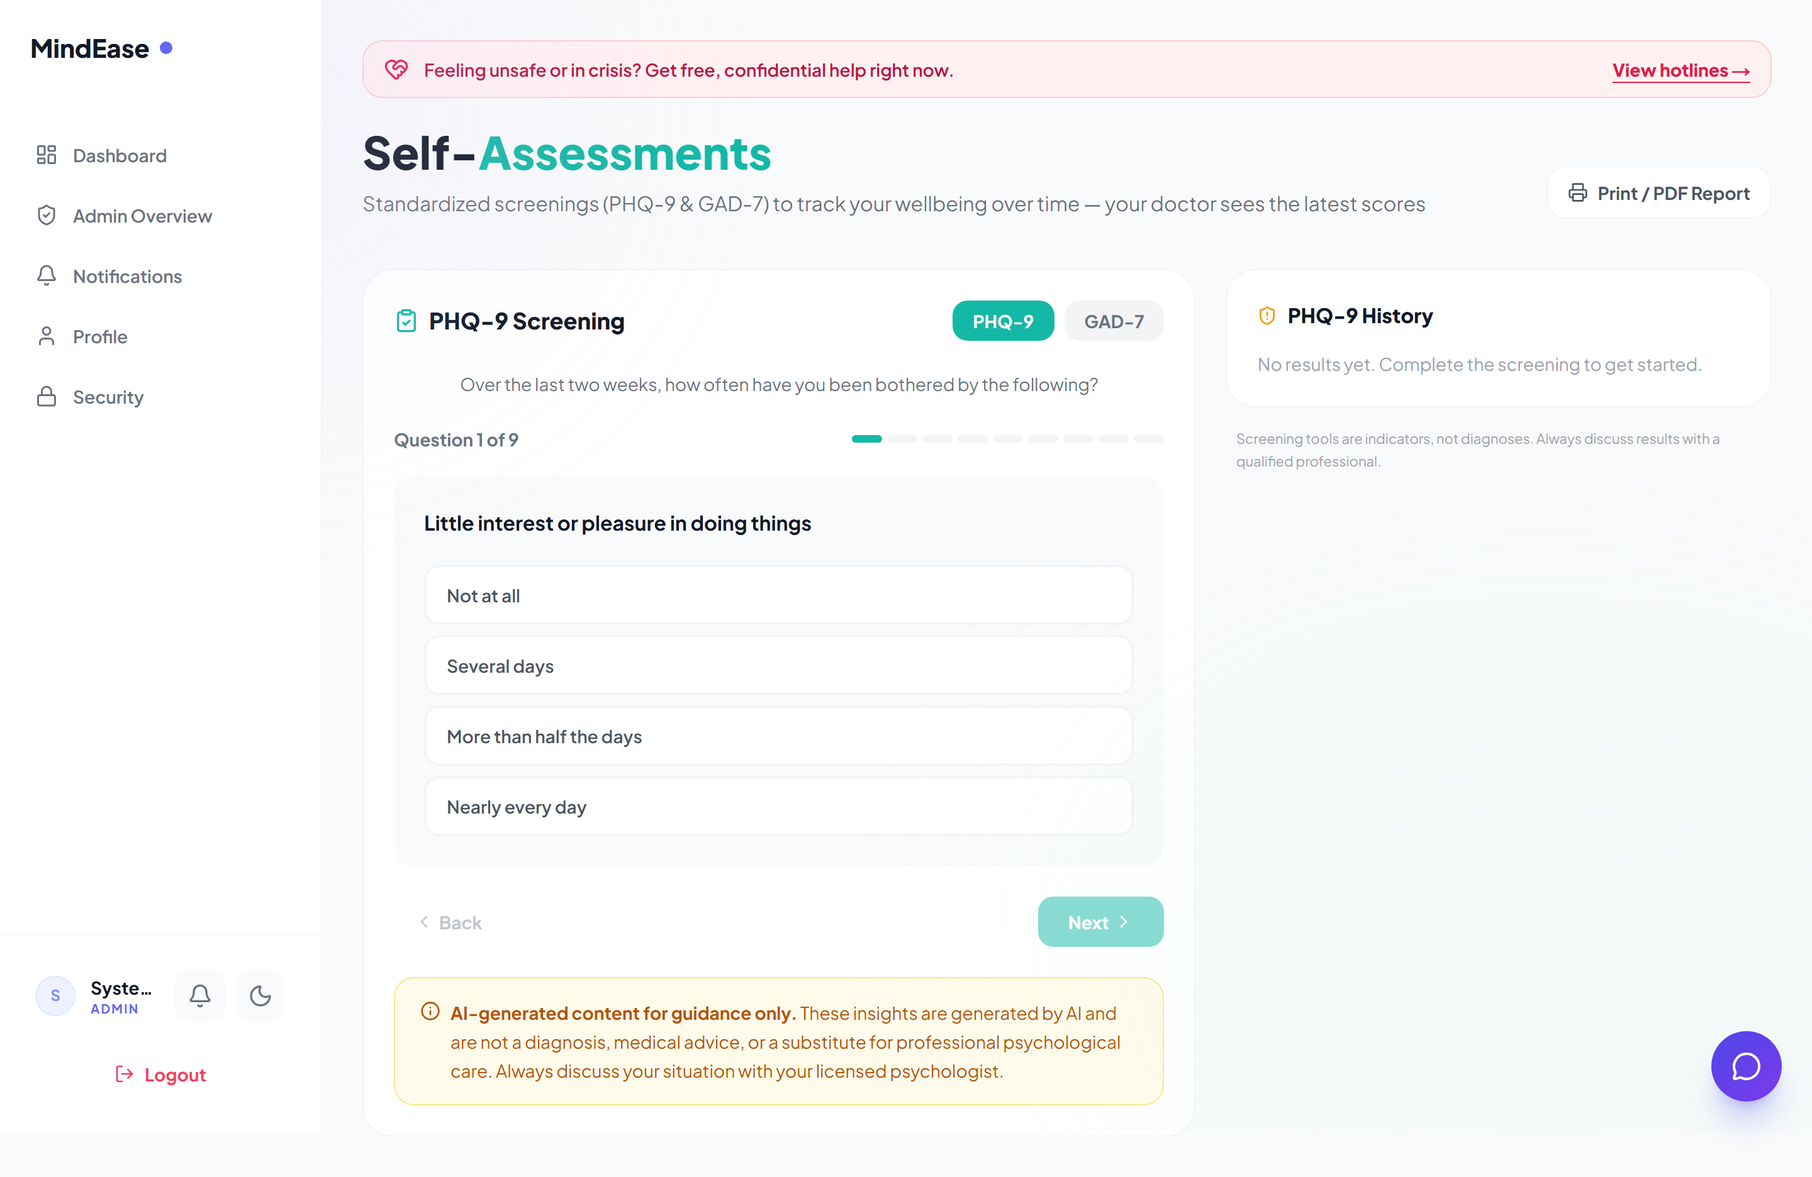
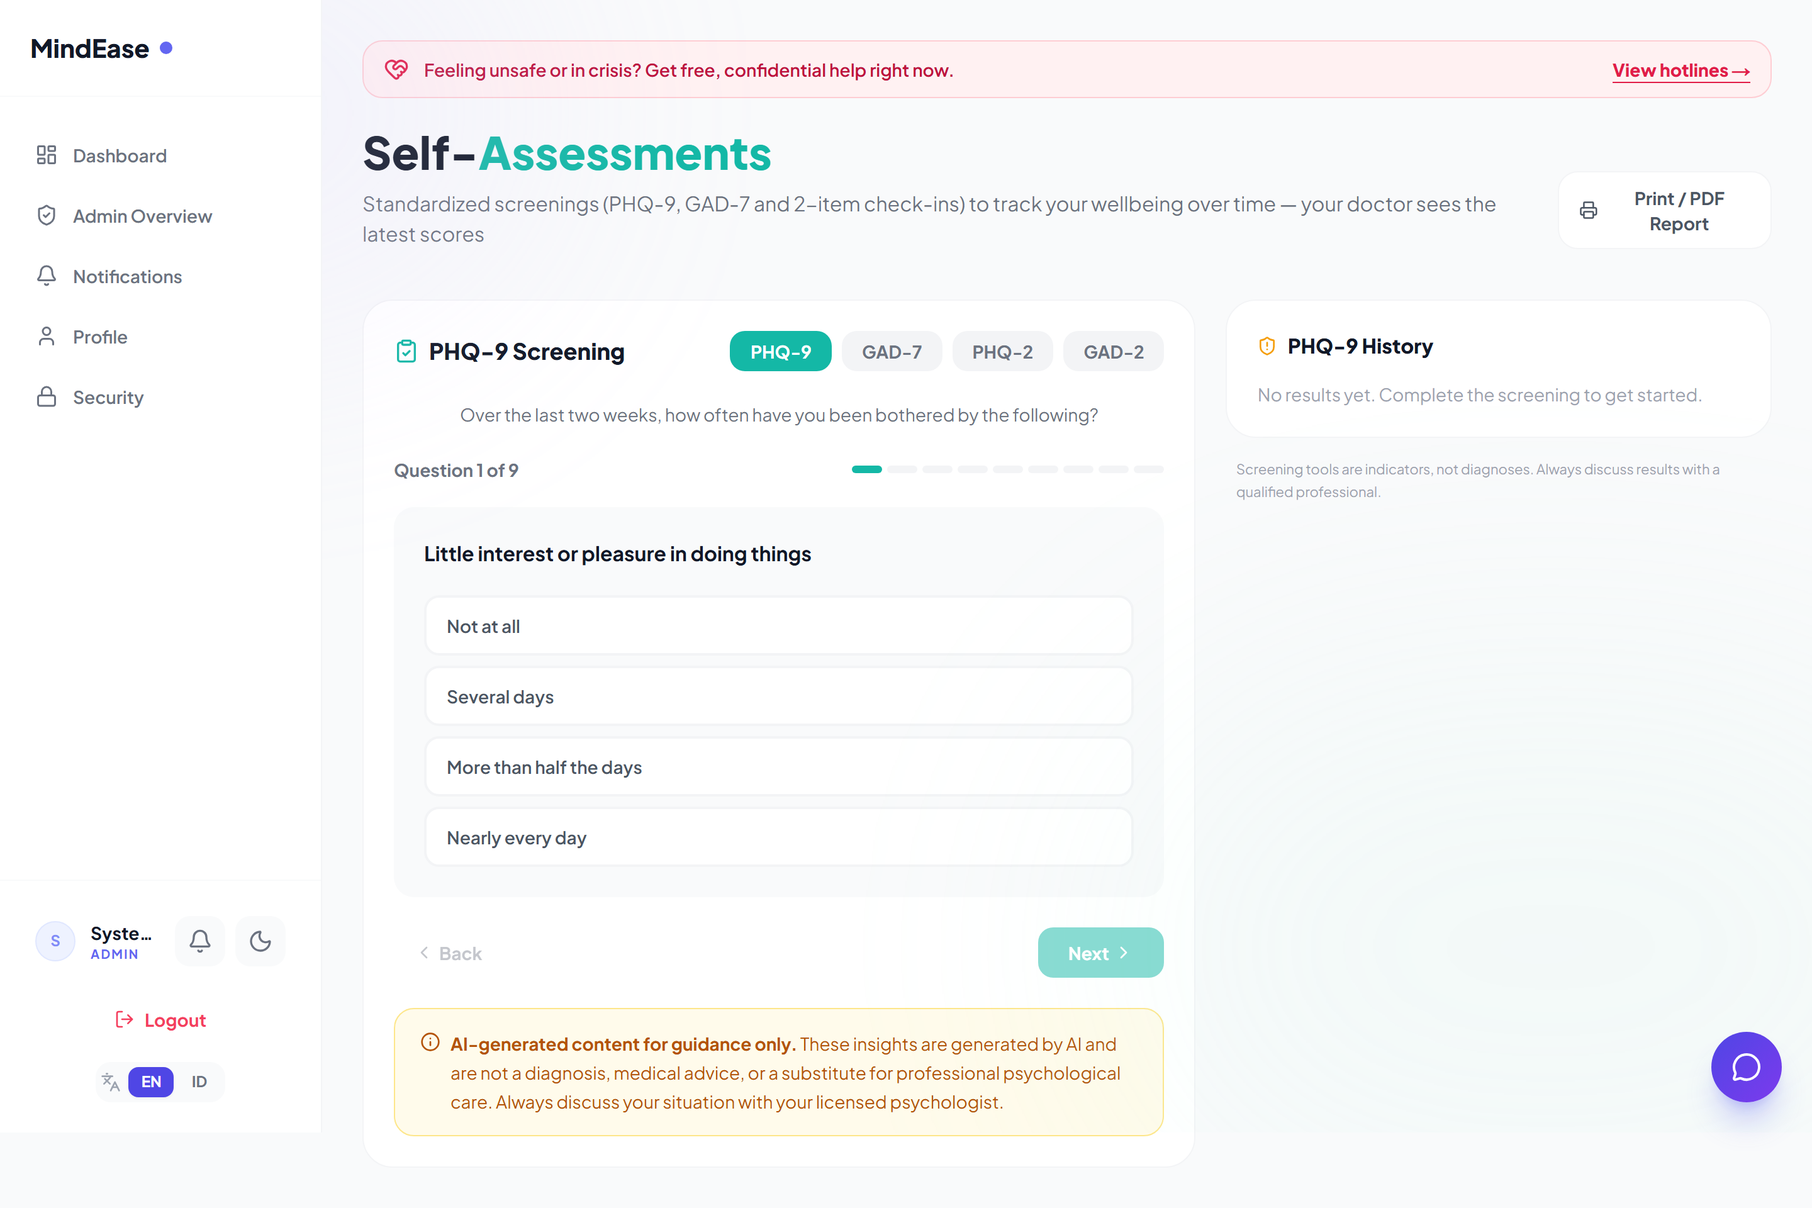
docs(readme): plain-language top, fix stale numbers, refresh visuals
Top now says what the app is and does in plain words; jargon lives under
'For engineers'. Fix drifted figures the gates don't cover (task.js size,
route/migration/page/component counts, test-hygiene statement, provider
name, data-model table count). Re-capture screenshots and the demo GIF
against the current UI.

diff --git a/README.md b/README.md
@@ -1,11 +1,11 @@
 # MindEase
 
-**A mental-health telehealth platform where a disclosure of thoughts of self-harm
-reaches a named clinician, and the code says out loud when it cannot.**
-
-Booking, in-browser video, longitudinal clinical records, an admin console, and
-a triage queue for risk disclosures. Next.js 16, a Go API, MySQL, and a Go
-WebSocket service.
+A telehealth app for mental-health care. Patients find a licensed
+psychologist, book a video, voice or chat session, and keep mood logs, a
+journal and screening check-ins between visits. When a patient writes
+something worrying, it becomes a task for a named clinician — a person always
+decides what happens next. The app never diagnoses, never contacts anyone on
+its own, and every AI answer is labelled as AI.
 
 [![CI](https://github.com/davinakmalyasha/MindEase/actions/workflows/ci.yml/badge.svg)](https://github.com/davinakmalyasha/MindEase/actions/workflows/ci.yml)
 [![Security](https://github.com/davinakmalyasha/MindEase/actions/workflows/security.yml/badge.svg)](https://github.com/davinakmalyasha/MindEase/actions/workflows/security.yml)
@@ -23,13 +23,24 @@ WebSocket service.
 </p>
 <p align="center"><sub>Recorded from the seeded local stack by <code>client/scripts/demo.js</code>.</sub></p>
 
-> **Solo build · portfolio-complete · not deployed.** The latest release is
-> [`v0.6.1`](https://github.com/davinakmalyasha/MindEase/releases/tag/v0.6.1);
-> `main` carries the sweep after `v0.6.1`. If you read one file, make it
+> **Solo portfolio build, not deployed.** If you read one file, make it
 > [ENGINEERING-NOTES.md](ENGINEERING-NOTES.md); if you run one command, make it
 > `npm run setup`, then `npm run dev`.
 
-- [The screens](#the-screens) · [The part I would talk about](#the-part-i-would-talk-about-in-an-interview) · [Three gates](#three-gates-that-are-not-a-test-suite) · [What it does](#what-it-does) · [Scale](#scale) · [Quick start](#quick-start) · [Testing](#testing) · [Documentation](#documentation) · [Architecture](#architecture) · [Environment](#environment-reference) · [Deployment](#deployment-not-configured) · [API docs](#api-documentation) · [Security](#security-features) · [Known limitations](#known-limitations) · [CI/CD](#cicd)
+- [What you can do](#what-you-can-do) · [The screens](#the-screens) · [Why it is built this way](#why-it-is-built-this-way) · [Three checks that fail the build](#three-checks-that-fail-the-build) · [Scale](#scale) · [Quick start](#quick-start) · [Testing](#testing) · [Documentation](#documentation) · [Architecture](#architecture) · [Environment](#environment-reference) · [Deployment](#deployment-not-configured) · [API docs](#api-documentation) · [Security](#security-features) · [Known limitations](#known-limitations) · [CI/CD](#cicd)
+
+---
+
+## What you can do
+
+- **Find a psychologist** by specialty, price and experience, and book a time that suits you. Reschedule or cancel from your appointments.
+- **Meet over video, voice or chat.** The meeting link alone is not enough to join — the server issues a short-lived pass per participant.
+- **Track how you are doing.** Log your daily mood, keep a journal, and fill in PHQ-9 and GAD-7 check-ins your clinician can read before the session. These are screening questionnaires, not diagnoses.
+- **Keep plans that stay yours.** Care plans and safety plans are written by you, never generated by the app.
+- **Message your clinician.** If you write that you might harm yourself, your clinician is notified and you get crisis hotlines straight away.
+- **As a clinician:** work through a triage queue of disclosures, open a pre-session briefing of each patient's recent state, and keep a caseload view.
+- **Ask Ease, the support chat,** for help with booking or finding a psychologist. It can search the directory, remember things you ask it to, and it says when an answer came from the AI rather than a fixed help topic.
+- **As an admin:** verify clinician profiles before they go public, moderate reviews, and see usage stats.
 
 ---
 
@@ -55,55 +66,49 @@ The full set, with a caption each, is in
 
 ---
 
-## The part I would talk about in an interview
+## Why it is built this way
 
-Most telehealth demos stop at "the patient booked a slot". Three things here go
-further, and each is a decision rather than a feature.
+Most telehealth demos stop at "the patient booked a slot". Three decisions
+here go further.
 
-**A disclosure of thoughts of self-harm becomes someone's job.** A non-zero
-answer to PHQ-9 item 9, the SOS button, or crisis phrasing in a
-patient-to-clinician message becomes a row in a worklist a named clinician
-works — with acknowledging and resolving as separate acts, so an alert picked up
-on Monday and still owed an outcome on Friday doesn't look identical to one
-nobody has seen. Resolution records who did what, and the row is kept.
+**A worrying message becomes someone's job.** A concerning answer in a
+screening, the SOS button, or crisis wording in a message to your clinician
+becomes a row in a worklist a named clinician works through. "Seen" and
+"resolved" are separate steps, so an alert picked up on Monday that still
+needs a follow-up on Friday does not look the same as one nobody has opened.
+Resolving records who did what, and the row is kept.
 
-**It never escalates on its own.** A crisis phrase prompts a human. There is no
-code path from a patient's message to an external service, and
+**It never acts on its own.** A crisis phrase prompts a human. There is no
+code path from a patient's message to an outside service, and
 [ADR-0002](docs/adr/0002-ai-provenance.md) records why adding one is a product
-decision rather than a feature. Keyword matching is a prompt to look, not a
-triage system, and the footer of the queue screen says so in those words.
+decision, not a feature. Keyword matching is a prompt to look, not a
+diagnosis, and the queue screen says so in those words.
 
-**The UI is not allowed to invent a clinical claim.** A clinician with no
-reviews has a rating of `0`, not a flattering default. An unstated availability
-renders as "not published" — the profile page used to show every clinician
-`Mon – Fri 09:00–17:00` because the API never selected the field, which is a
-fabricated commitment from a person, about a person. Untranslated strings, raw
-API slugs, and dates formatted in whatever locale the browser had are all bugs;
+**The UI is not allowed to make things up.** A clinician with no reviews
+shows a rating of `0`, not a flattering default. Unstated availability renders
+as "not published" — the profile page once showed every clinician as
+`Mon – Fri 09:00–17:00` because the API never sent the real value, which is a
+made-up commitment from a person, about a person. Untranslated strings and
+dates formatted in the wrong locale are treated as the same kind of bug;
 [`client/tests/doctor-mapping.test.ts`](client/tests/doctor-mapping.test.ts)
 exists mostly to keep them fixed.
 
-## Three gates that are not a test suite
+## Three checks that fail the build
 
 Most of the unusual shape of this code follows from three checks that fail the
 build. [CONTRIBUTING.md](CONTRIBUTING.md) has the commands.
 
-| Gate | What it caught |
+| Check | What it caught |
 |---|---|
 | **Schema drift is a build failure.** The database is built from all 23 migrations, and `/api/health/db` answers 503 with `schema: drift` when a table the binary expects is missing. | `RiskAlert.resolvedById` was declared and written but created by no migration: the triage queue threw a validation error against any properly built database, and survived because the suite had never been run against one. |
-| **The realtime contract is pinned on both sides.** `server-realtime/hub/*_test.go` pins the JWT claims, the origin allowlist and the event envelope; the browser suite drives the REST side that publishes those events. One contract, checked where it is implemented. | Drift between the Go event table, the TypeScript event union and the client fan-out. The old cross-language test died with the Node tree; the Go hub tests and the twelve journeys hold the same boundary now. |
-| **Documented numbers are checked against the tree.** `scripts/check-numbers.js` re-derives every count quoted in the documentation and fails the build on a disagreement. | Fifteen counts that drifted after a previous pass corrected them all: a stale test count in two CI comments, a per-file table summing to 415 under a heading that said 427, a badge reading a version no manifest pinned. |
+| **The realtime contract is pinned on both sides.** `server-realtime/hub/*_test.go` pins the login claims, the allowed origins and the event format; the browser suite drives the REST side that publishes those events. One contract, checked where it is implemented. | Drift between the Go event table, the TypeScript event union and the client fan-out. The old cross-language test died with the Node tree; the Go hub tests and the journeys hold the same boundary now. |
+| **Documented numbers are checked against the tree.** `scripts/check-numbers.js` re-derives every count quoted in the documentation and fails the build on a disagreement. | Counts that drifted after a previous pass corrected them all: a stale test count in two CI comments, a per-file table summing to 415 under a heading that said 427, a badge reading a version no manifest pinned. |
 
-## What it does
+## For engineers
 
-| | |
-|---|---|
-| **Clinical safety** | A clinician triage queue with acknowledge/resolve transitions, an audit trail, and no automatic escalation. A patient-owned care plan (goals and steps, `dropped` as well as `achieved`) and a patient-written safety plan that is never generated by a model. |
-| **Consultations** | In-browser video and voice. The server mints a short-lived, room-scoped, participant-bound token, so a link is not sufficient to join. The room opens 15 minutes early and closes an hour after. Follow-up scheduling and `.ics` export. |
-| **Longitudinal records** | PHQ-9 and GAD-7 with a scored trajectory and an explicit `insufficient-data` state rather than a confident verdict from two data points. Mood trends, 30-day averages, streaks, and journal summaries. |
-| **Access transparency** | Clinician profiles show real availability patterns, licence details, and credentials — labelled as the clinician's own statement, and equally clear when they have stated nothing. |
-| **AI with provenance as a type** | `AiResult` carries `source` and `degradedReason`, so a degraded response cannot be rendered as a real one without ignoring the type. Circuit breaker, bounded timeouts, and a per-process random fence nonce around every untrusted block in a prompt. |
-| **Booking** | Slot integrity, waitlists, away mode, recurring availability patterns, referral credits, therapy packages, and Midtrans checkout behind a provider abstraction. |
-| **Accounts** | Argon2id, TOTP 2FA with a replay guard, hashed rotating refresh tokens, CSRF double-submit, account export and anonymising deletion. |
+What follows is the technical half: what the code guarantees, the measured
+numbers, and how to run it. Anything here you can verify by running the
+commands next to it.
 
 ## Scale
 
@@ -111,7 +116,7 @@ Numbers measured from the tree, not estimated.
 
 | | |
 |---|---|
-| **48,211** | lines of TypeScript, Go and SQL — 19,637 application, 1,049 tests, 1,863 migration SQL, 25,662 Go |
+| **52,004** | lines of TypeScript, Go and SQL — 20,763 application, 1,049 tests, 1,987 migration SQL, 28,205 Go |
 | **148** | API routes · **32** tables · **23** migrations |
 | **152** | Go tests in 23 files · **52** client unit tests · **14** Playwright tests in 12 journeys |
 | **5** | ADRs · **5** long-running services in compose (plus a one-shot migrate and a `perf` profile) |
@@ -178,7 +183,7 @@ prints the command it runs, so nothing is hidden behind a runner.
 
 ### The task runner
 
-`scripts/task.js` is ~380 lines of Node with no dependencies. It replaced a
+`scripts/task.js` is a single dependency-free Node file. It replaced a
 `Makefile` for one reason: `make` is a Unix build tool, and requiring it meant a
 Windows reviewer could not start the demo. `Package.json` maps each `npm run`
 name to one function there, and the same commands can be typed by hand.
@@ -200,17 +205,17 @@ name to one function there, and the same commands can be typed by hand.
 MindEase/
 ├─ server-go/           The API. Go 1.27, chi + database/sql over MySQL.
 │  ├─ cmd/              api, migrate (the only schema runner), seed
-│  ├─ internal/server/  routes, middleware, auth, jobs — 133 registrations
+│  ├─ internal/server/  routes, middleware, auth, jobs, and the support agent
 │  ├─ internal/config/  env loading with the production guards
 │  ├─ internal/db/      pool and DSN parsing
 │  ├─ internal/migrate/ embedded runner, baselined against Prisma's table
-│  └─ migrations/       21 hand-written MySQL migrations, embedded at build time
+│  └─ migrations/       23 hand-written MySQL migrations, embedded at build time
 ├─ client/              Next.js 16 App Router, React 19, next-intl
-│  ├─ app/              36 pages; every authenticated one is a client component
-│  ├─ components/       55 components
+│  ├─ app/              pages; every authenticated one is a client component
+│  ├─ components/       shared UI
 │  ├─ hooks/queries/    TanStack Query — the house data-fetching pattern
 │  ├─ messages/         en.json and id.json, kept in parity by a test
-│  ├─ e2e/              12 Playwright tests in 11 journeys
+│  ├─ e2e/              14 Playwright tests in 12 journeys
 │  └─ tests/            52 unit tests
 ├─ server-realtime/     Go WebSocket hub. 32 tests with -race.
 ├─ perf/k6/             smoke, mixed-read load and two-process replica scripts
@@ -240,10 +245,10 @@ MindEase/
 | `check-stale-writes.js` | a response that lands after a newer one and overwrites it, e.g. across two patient records |
 | `client/scripts/check-ui-hygiene.js` | a *new* hardcoded English string, viewer-locale date formatting, or `<img>` without `alt`. Existing debt is budgeted and may only fall |
 
-Seven of these have a `.test.js` beside them (`check-ui-hygiene.js` is the
-exception) that pins the rules against policies, key sets and markup written
-by hand — including the specific broken intermediate each one was written to
-catch. A gate with no test proving it can still fail is a comment.
+Every gate ships with a `.test.js` beside it that pins the rules against
+policies, key sets and markup written by hand — including the specific broken
+intermediate each one was written to catch. A gate with no test proving it can
+still fail is a comment.
 
 Plus two maintenance tools: `pin-actions.js` rewrites every `uses:` to a commit
 SHA, and `setup-env.js` generates the local signing secrets and checks that the
@@ -293,7 +298,7 @@ npm run coverage  # Go statement coverage for both modules
 npm run e2e       # the 12 Playwright journeys against the running stack
 ```
 
-The behavioural suite is the browser one: 12 Playwright tests drive the real
+The behavioural suite is the browser one: the Playwright journeys drive the real
 client against the real stack — MySQL, Redis, the Go API — including two booking
 flows that exercise the slot claim through the UI. The Go tests cover what a
 browser cannot reach: production config guards, token purposes and password
@@ -322,7 +327,7 @@ statements/branches/functions/lines, and Playwright has no instrumentation. See
 | [ARCHITECTURE.md](ARCHITECTURE.md) | How the services fit together, and the reasoning behind the layering |
 | [ENGINEERING-NOTES.md](ENGINEERING-NOTES.md) | What was wrong in this repository, how it was found, and what I still do not believe |
 | [docs/security.md](docs/security.md) | Threat model, what is deliberately not protected, and the controls that carry the weight |
-| [docs/data-model.md](docs/data-model.md) | 31 tables, an ER diagram, and the decisions that are not obvious from the schema |
+| [docs/data-model.md](docs/data-model.md) | 32 tables, an ER diagram, and the decisions that are not obvious from the schema |
 | [docs/testing.md](docs/testing.md) | The gates, the three suites, and how to add a test |
 | [docs/performance.md](docs/performance.md) | k6 load results, the pool experiment, and how to reproduce them |
 | [docs/scaling.md](docs/scaling.md) | Pools, replicas, sharding, multiple processes, and the provider map |
@@ -360,14 +365,14 @@ graph LR
 - **API**: Go 1.27, chi, database/sql over MySQL, JWT rotation, CSRF, Redis rate limiting, audit logging, structured logs, health and schema checks
 - **Realtime**: Go microservice (`server-realtime/`) — WebSocket hub consuming Redis pub/sub events pushed by the API
 - **Auth**: email/password (Argon2), Google SSO, email verification, TOTP 2FA, login lockout, refresh-token rotation
-- **AI**: Command Code (OpenAI-compatible) serving DeepSeek V4.1 Flash — pre-session questions, doctor briefings, wellness suggestions, journal reflections, natural-language doctor matching, support chat. Every call reports whether a model answered, and the UI says so
+- **AI**: OpenCode Go (OpenAI-compatible) serving DeepSeek V4.1 Flash — pre-session questions, doctor briefings, wellness suggestions, journal reflections, natural-language doctor matching, and the Ease support chat, which can search the directory and keep per-account notes via tools. Every call reports whether a model answered, and the UI says so
 - **Consultations**: in-app video/voice rooms. The server mints a short-lived, room-scoped access token; only the appointment's patient and clinician can obtain one, the room opens 15 minutes early and closes an hour after, and follow-up scheduling plus `.ics` export are supported
 - **Clinical safety**: a clinician **risk queue** collecting disclosures from PHQ-9 item 9, the SOS button, crisis phrasing in a patient-to-clinician message, and a sustained mood decline detected daily — with acknowledge/resolve transitions and an audit trail. Unassigned disclosures page the admins instead of dying quietly. Matches are keyword or screening signals that prompt a human; nothing escalates automatically
 - **Longitudinal records**: a **care plan** owned by the patient (goals and steps, `dropped` as well as `achieved`) and a patient-written **safety plan**. Neither is ever generated by a model
 - **Screening**: PHQ-9 & GAD-7 with severity scoring, plotted as a trajectory, printable, and surfaced in the doctor's briefing. Screening instruments, not diagnoses
 - **Access transparency**: a clinician's stated licence number, issuer, education, languages and real published availability are shown on their public profile, and the "verified" badge is labelled for what it is — an administrative review of submitted information, not a check against a licensing board
 - **Wellness**: mood logging with factor tags and correlation stats, private journal with AI weekly reflections, opt-in Monday wellness report (in-app), automated care check-ins
-- **Support**: "Ease", an AI support assistant that routes crisis phrasing to emergency hotlines and hands off to a support email address
+- **Support**: "Ease", an AI support chat that routes crisis phrasing to emergency hotlines, searches the psychologist directory and keeps per-account notes via tools, and hands off to a support email address
 - **Growth**: referral program (invite codes, credit on first completed session), therapy packages with the payment simulator
 - **Notifications**: per-category × per-channel preferences, web push (PWA) via VAPID
 - **Trust**: doctor verification workflow (profiles hidden until admin approval), doctor replies to reviews, admin review moderation, transactional emails, in-app appointment reminders, waitlist, away mode

diff --git a/docs/testing.md b/docs/testing.md
@@ -240,7 +240,7 @@ real client against a real server surfaces.
 | `realtime` | `go vet`, golangci-lint, build, `go test -race` with a coverage profile |
 | `client` | lint, unit tests, coverage (gated), production build |
 | `compose` | `docker compose config` |
-| `docker` | builds the four images, boots the stack, probes health, seeds, runs the 12 Playwright tests in production mode |
+| `docker` | builds the four images, boots the stack, probes health, seeds, runs the 14 Playwright tests in production mode |
 
 Four static analyzers that scanned the Node tree — auth coverage, read-audit
 markers, optimistic-write patterns and schema index acknowledgements — retired
